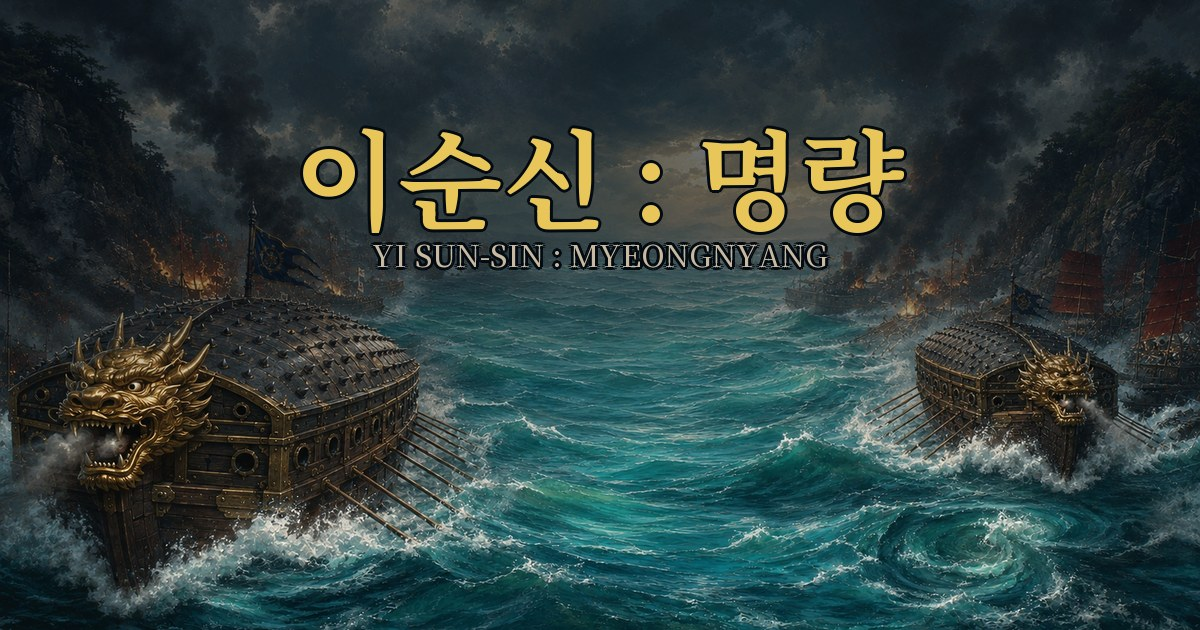
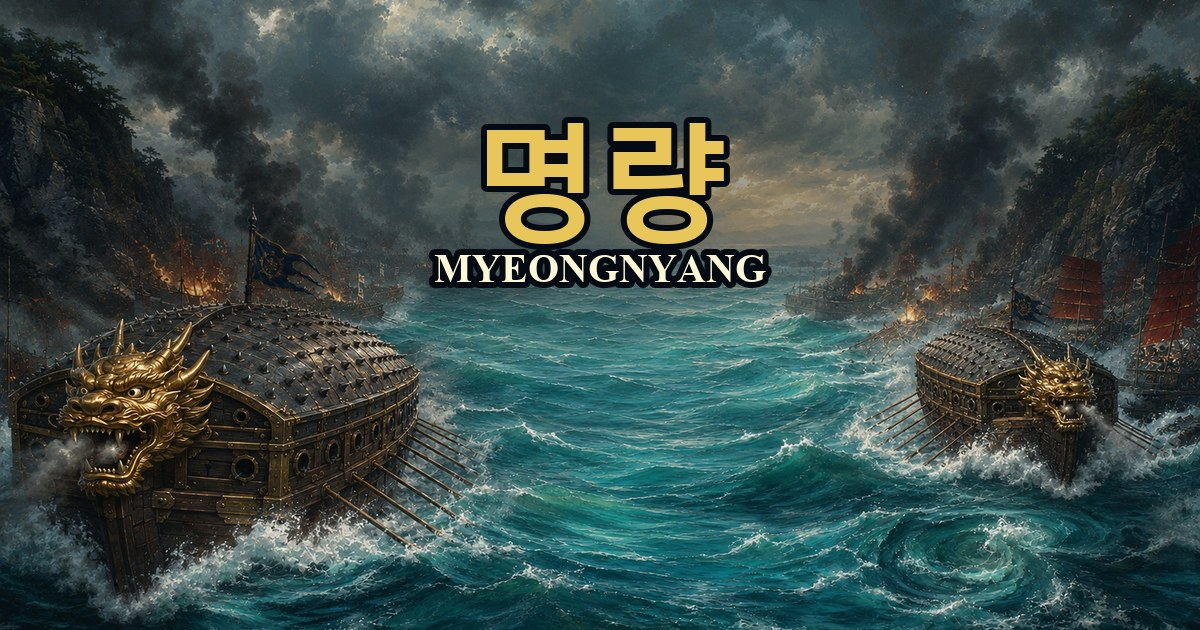
feat: 게임명 「명량」 전환 · 타이틀 로고 V2 · 난중일기 속지 V2
1. 화면에 보이는 이름을 「이순신 : 명량」 → 「명량」 으로 (11곳)
   config.json 의 title 이 정본 — main.js 가 런타임에 document.title 을 덮는다.
   ⛔ 폴더·식별자 yisunsin 과 배포 주소는 그대로다. 공유된 링크가 살아 있어야 한다.
2. 타이틀 로고 V2 — 마젠타 크로마 키 + 여백 트림 → 900x303
   로고에 「명량」이 그려져 있어 .title-era 로 얹던 글자가 중복이 됐다 — 걷었다.
   CSS aspect-ratio 900/306 → 900/303 (에셋이 비율을 정한다)
3. 난중일기 속지 V2 — 제목이 「난중일기」 → 「명량」
   신규 원본이 구 원본과 크기가 같아(971x1619) 같은 처리를 그대로 적용했다.
   실측 — 숫자 중심이 속지 대비 (50.6%, 48.9%) 로 신규 원 중심과 일치. CSS 변경 0.
4. OG 커버 재생성 + 도구화 (og_cover.py) — 이름이 또 바뀌어도 한 줄이면 된다

검증 377개 통과 · 코드 위생 0건 · WebKit/Chromium × 7해상도 회귀 통과
RTP 127.93% · 확률 · 배당 · 릴 스트립 변경 0건

diff --git a/yisunsin/index.html b/yisunsin/index.html
@@ -3,7 +3,7 @@
 <head>
   <meta charset="utf-8">
   <meta name="viewport" content="width=device-width, initial-scale=1, viewport-fit=cover">
-  <title>이순신 : 명량</title>
+  <title>명량</title>
 
   <!-- 🔴 홈 화면에 추가하면 **사파리 주소창·툴바 130px 을 되찾는다** (2026-09-06).
        실측 — iPhone 16 Pro 가로에서 바가 있으면 세로 272px, 없으면 402px.
@@ -19,16 +19,16 @@
   <meta property="og:type" content="website">
   <meta property="og:site_name" content="마부 인터랙티브">
   <meta property="og:locale" content="ko_KR">
-  <meta property="og:title" content="이순신 : 명량">
+  <meta property="og:title" content="명량">
   <meta property="og:description" content="울돌목의 해전을 배경으로 한 5×4 릴 25 페이라인 슬롯. 프리스핀 · 보너스 게임 · 잭팟.">
   <meta property="og:url" content="https://jacksonhkim.github.io/Mabuinteractive/yisunsin/">
   <meta property="og:image" content="https://jacksonhkim.github.io/Mabuinteractive/yisunsin/assets/ui/og_cover.jpg">
   <meta property="og:image:type" content="image/jpeg">
   <meta property="og:image:width" content="1200">
   <meta property="og:image:height" content="630">
-  <meta property="og:image:alt" content="이순신 : 명량 — 울돌목 해전을 배경으로 한 슬롯">
+  <meta property="og:image:alt" content="명량 — 울돌목 해전을 배경으로 한 슬롯">
   <meta name="twitter:card" content="summary_large_image">
-  <meta name="twitter:title" content="이순신 : 명량">
+  <meta name="twitter:title" content="명량">
   <meta name="twitter:description" content="울돌목의 해전을 배경으로 한 5×4 릴 25 페이라인 슬롯. 프리스핀 · 보너스 게임 · 잭팟.">
   <meta name="twitter:image" content="https://jacksonhkim.github.io/Mabuinteractive/yisunsin/assets/ui/og_cover.jpg">
   <meta name="description" content="울돌목의 해전을 배경으로 한 5×4 릴 25 페이라인 슬롯. 프리스핀 · 보너스 게임 · 잭팟.">
@@ -38,7 +38,7 @@
   <meta name="mobile-web-app-capable" content="yes">
   <meta name="apple-mobile-web-app-capable" content="yes">
   <meta name="apple-mobile-web-app-status-bar-style" content="black-translucent">
-  <meta name="apple-mobile-web-app-title" content="이순신 : 명량">
+  <meta name="apple-mobile-web-app-title" content="명량">
   <link rel="apple-touch-icon" href="assets/ui/app_icon_apple_180.png">
   <link rel="icon" type="image/png" href="assets/ui/app_icon_192.png">
 
@@ -50,11 +50,12 @@
   <!-- 🔴 타이틀은 장식이 아니다. 브라우저의 오디오 잠금을 푸는 **첫 제스처**를 받는 자리다.
        (사운드기획서 §5-1) -->
   <section id="title">
-    <h1 id="title-name">이순신 : 명량</h1>
-    <!-- 🔴 로고 그림에는 「이순신」만 들어 있다 (2026-09-06 명칭 변경).
-         에셋을 다시 뽑지 않고 「명량」을 아래에 얹어 이름을 완성한다.
-         ⛔ `aria-hidden` — 위 h1 이 이미 전체 이름을 읽는다. 두 번 읽히면 안 된다. -->
-    <p class="title-era" aria-hidden="true">명량</p>
+    <!-- 🔴 글자는 로고 그림이 전부 갖고 있다 (신규 로고 V2 · 2026-09-08).
+         이전 로고에는 「이순신」까지만 있어 아래에 「명 량」을 얹어 완성했는데,
+         V2 는 **「명량」이 그려져 있어** 그 줄(`.title-era`)이 중복이 됐다 — 걷었다.
+         ⛔ h1 의 텍스트는 지우지 않는다. `text-indent: -9999px` 로 눈에만 안 보일 뿐
+            스크린리더는 이 글자로 게임 이름을 읽는다. -->
+    <h1 id="title-name">명량</h1>
     <p class="tagline">THE LEGEND NEVER SINKS</p>
     <p class="sub" id="title-sub">불러오는 중…</p>
     <!-- 기동 실패는 **여기** 보여야 한다. 숨겨진 영역에 쓰면 아무 단서 없이 멈춘 것처럼 보인다. -->
@@ -315,7 +316,7 @@
     <div class="rotate-box">
       <div class="rotate-phone" aria-hidden="true"><span class="rotate-screen"></span></div>
       <p id="rotate-title" class="rotate-title">가로로 돌려 주세요</p>
-      <p id="rotate-sub" class="rotate-sub">이순신 : 명량은 가로 화면에 맞춰 만들어졌습니다</p>
+      <p id="rotate-sub" class="rotate-sub">명량은 가로 화면에 맞춰 만들어졌습니다</p>
     </div>
   </div>
 

diff --git a/yisunsin/css/main.css b/yisunsin/css/main.css
@@ -113,19 +113,9 @@ body {
   text-shadow: 0 0 30px rgba(201, 162, 39, 0.35);
 }
 
-/* 🔴 「명량」 — 로고 그림이 「이순신」까지만 그려 주므로 나머지를 코드가 얹는다.
-   ⛔ 자간을 준 마지막 글자 **뒤에도** 자간이 붙어 오른쪽으로 밀린다.
-      `text-indent` 로 절반을 되돌려야 로고와 가운데가 맞는다. */
-.title-era {
-  margin: -0.15em 0 0.15em;
-  font-family: "Noto Serif KR", "AppleMyungjo", "Batang", serif;
-  font-size: clamp(1.05rem, 3.4vw, 1.65rem);
-  font-weight: 700;
-  letter-spacing: 0.52em;
-  text-indent: 0.52em;
-  color: var(--gold-lit);
-  text-shadow: 0 0 24px rgba(201, 162, 39, 0.42), 0 2px 6px #030a12;
-}
+/* ⛔ `.title-era` 는 없앴다 (2026-09-08 로고 V2).
+   이전 로고에 「이순신」까지만 있어 「명 량」을 코드로 얹었는데, V2 에는
+   **「명량」이 그려져 있어** 그 줄이 중복이 됐다. 규칙과 요소를 함께 걷었다. */
 
 .tagline {
   margin: 0;
@@ -1113,13 +1103,13 @@ button.ghost[aria-pressed="true"] {
 }
 .topbar .field.jackpot .num { font-size: clamp(0.95rem, 2vw, 1.35rem); }
 
-/* 타이틀 로고 — 이미지에 「이순신」이 이미 들어 있으므로 글자는 숨긴다.
-   ⛔ display:none 은 쓰지 않는다. 스크린리더가 제목을 읽지 못한다. */
-/* 타이틀 로고 — 원본 비율 900:306 을 그대로 지킨다.
-   높이를 따로 주면 좌우 용이 잘리거나 여백이 생긴다. */
+/* 타이틀 로고 — 이미지에 「명량」이 이미 들어 있으므로 글자는 숨긴다.
+   ⛔ display:none 은 쓰지 않는다. 스크린리더가 제목을 읽지 못한다.
+   🔴 비율은 **에셋이 정한다** — V2 는 크로마 키 + 여백 트림 후 900×303 이다
+      (구본 900×306). 높이를 따로 주면 좌우 용이 잘리거나 여백이 생긴다. */
 #title h1 {
   width: min(620px, 86vw);
-  aspect-ratio: 900 / 306;
+  aspect-ratio: 900 / 303;
   height: auto;
   background: url("../assets/ui/ui_title_logo.webp") center / contain no-repeat;
   text-indent: -9999px;

diff --git a/index.html b/index.html
@@ -10,7 +10,7 @@
 <meta property="og:site_name" content="마부 인터랙티브">
 <meta property="og:locale" content="ko_KR">
 <meta property="og:title" content="마부 인터랙티브">
-<meta property="og:description" content="링크 하나로 바로 실행되는 게임들. 또또의 모험 · 이순신 : 명량.">
+<meta property="og:description" content="링크 하나로 바로 실행되는 게임들. 또또의 모험 · 명량.">
 <meta property="og:url" content="https://jacksonhkim.github.io/Mabuinteractive/">
 <meta property="og:image" content="https://jacksonhkim.github.io/Mabuinteractive/yisunsin/assets/ui/og_cover.jpg">
 <meta property="og:image:type" content="image/png">
@@ -81,7 +81,7 @@
   </a>
 
   <a class="card" href="yisunsin/">
-    <h2>이순신 : 명량</h2>
+    <h2>명량</h2>
     <p class="en">YI SUN-SIN : MYEONGNYANG</p>
     <p>울돌목의 해전을 배경으로 한 5×4 릴 25 페이라인 슬롯. 프리스핀 · 보너스 게임 · 잭팟.</p>
     <span class="tag">PLAY</span>
